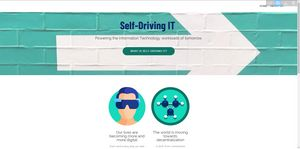
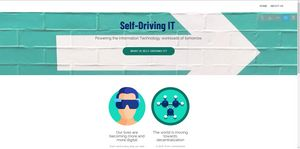
fix mobile size

Changed region(s): [[0.84, 0.0805, 0.99, 0.1611], [0.87, 0.0, 0.99, 0.0537]]

diff --git a/about-us.html b/about-us.html
@@ -42,16 +42,12 @@
         </button>
         <div class="menu-logo">
             <div class="navbar-brand">
-                <span class="navbar-logo">
-                    <a href="index.html">
-                        <img src="assets/images/tftechlogo-1.svg" alt="" title="" style="height: 3.8rem;">
-                    </a>
-                </span>
+                
                 
             </div>
         </div>
         <div class="collapse navbar-collapse" id="navbarSupportedContent">
-            <ul class="navbar-nav nav-dropdown nav-right" data-app-modern-menu="true"><li class="nav-item">
+            <ul class="navbar-nav nav-dropdown nav-right navbar-nav-top-padding" data-app-modern-menu="true"><li class="nav-item">
                     <a class="nav-link link text-black display-4" href="index.html">HOME</a>
                 </li><li class="nav-item"><a class="nav-link link text-black display-4" href="about-us.html">ABOUT US</a></li></ul>
             
@@ -93,8 +89,8 @@
     </div>
 </section>
 
-<div id="content3-4u" style="padding-bottom:85Vh; position:relative; display:block; width: 100%" class="cid-rwXG3ZZAqk" data-rv-view="620">
- <iframe id="ViostreamIframe" width="100%" height="100%" src="https://wiki.team.grid.tf/wiki/wiki_team#/threefold_tech?sidebar=hide&amp;github=hide" frameborder="0" allowfullscreen="" style="position:absolute; top:0; left: 0"></iframe>
+<div id="content3-4u" style="padding-bottom:100Vh; position:relative; display:block; width: 100%" class="cid-rwXG3ZZAqk" data-rv-view="302">
+ <iframe id="ViostreamIframe" width="100%" height="100%" overflow="hidden" src="https://wiki.team.grid.tf/wiki/wiki_team#/threefold_tech?sidebar=hide&amp;github=hide" frameborder="0" allowfullscreen="" style="position:absolute; top:0; left: 0"></iframe>
 </div>
 
 <section class="mbr-section info4 cid-ru1KRvSdpg" id="info4-4r">

diff --git a/assets/mobirise/css/mbr-additional.css b/assets/mobirise/css/mbr-additional.css
@@ -2045,11 +2045,17 @@ body {
 }
 @media screen and (max-width: 768px) {
   .cid-rwXG3ZZAqk #Container {
-    padding-bottom: 170% !important;
+    padding-bottom: 85Vh;
+    overflow: hidden;
+  }
+}
+@media (min-width: 320px) and (max-width: 480px) {
+  .cid-rwXG3ZZAqk #Container {
+    padding-bottom: 85Vh !important;
   }
 }
 .cid-ru1KRvSdpg {
-  padding-top: 30px;
+  padding-top: 15px;
   padding-bottom: 0px;
   background-color: #ffffff;
 }
